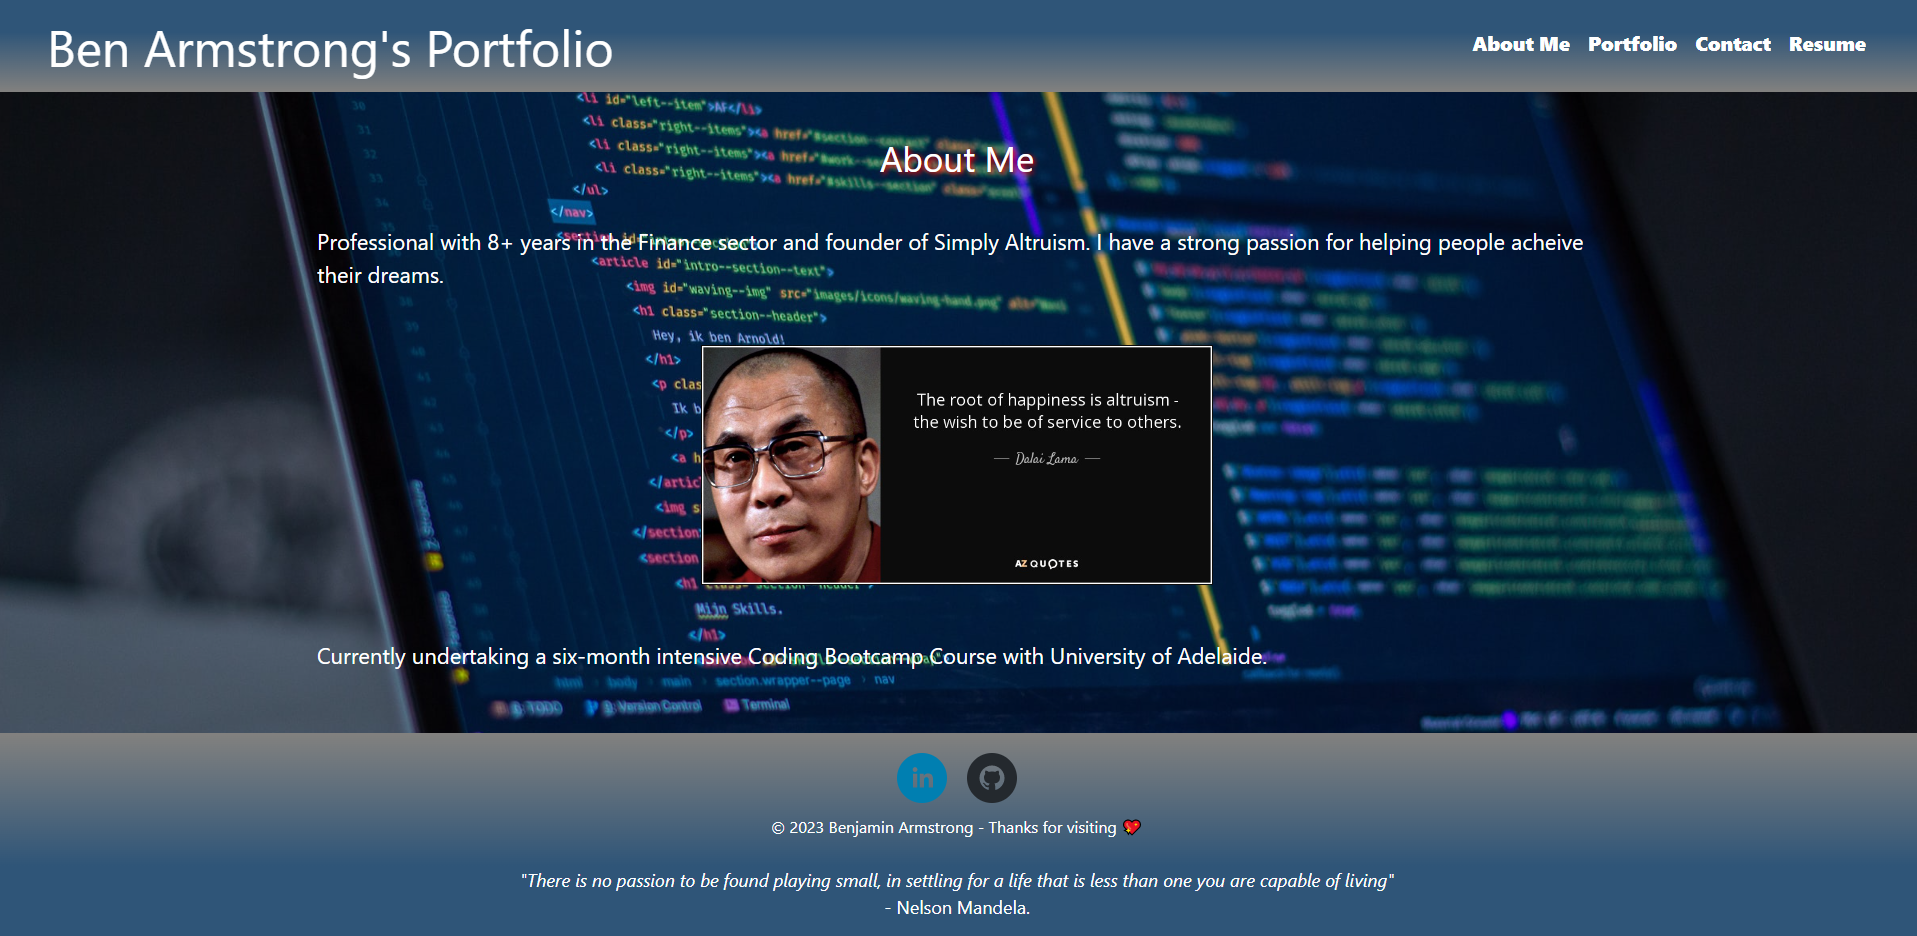
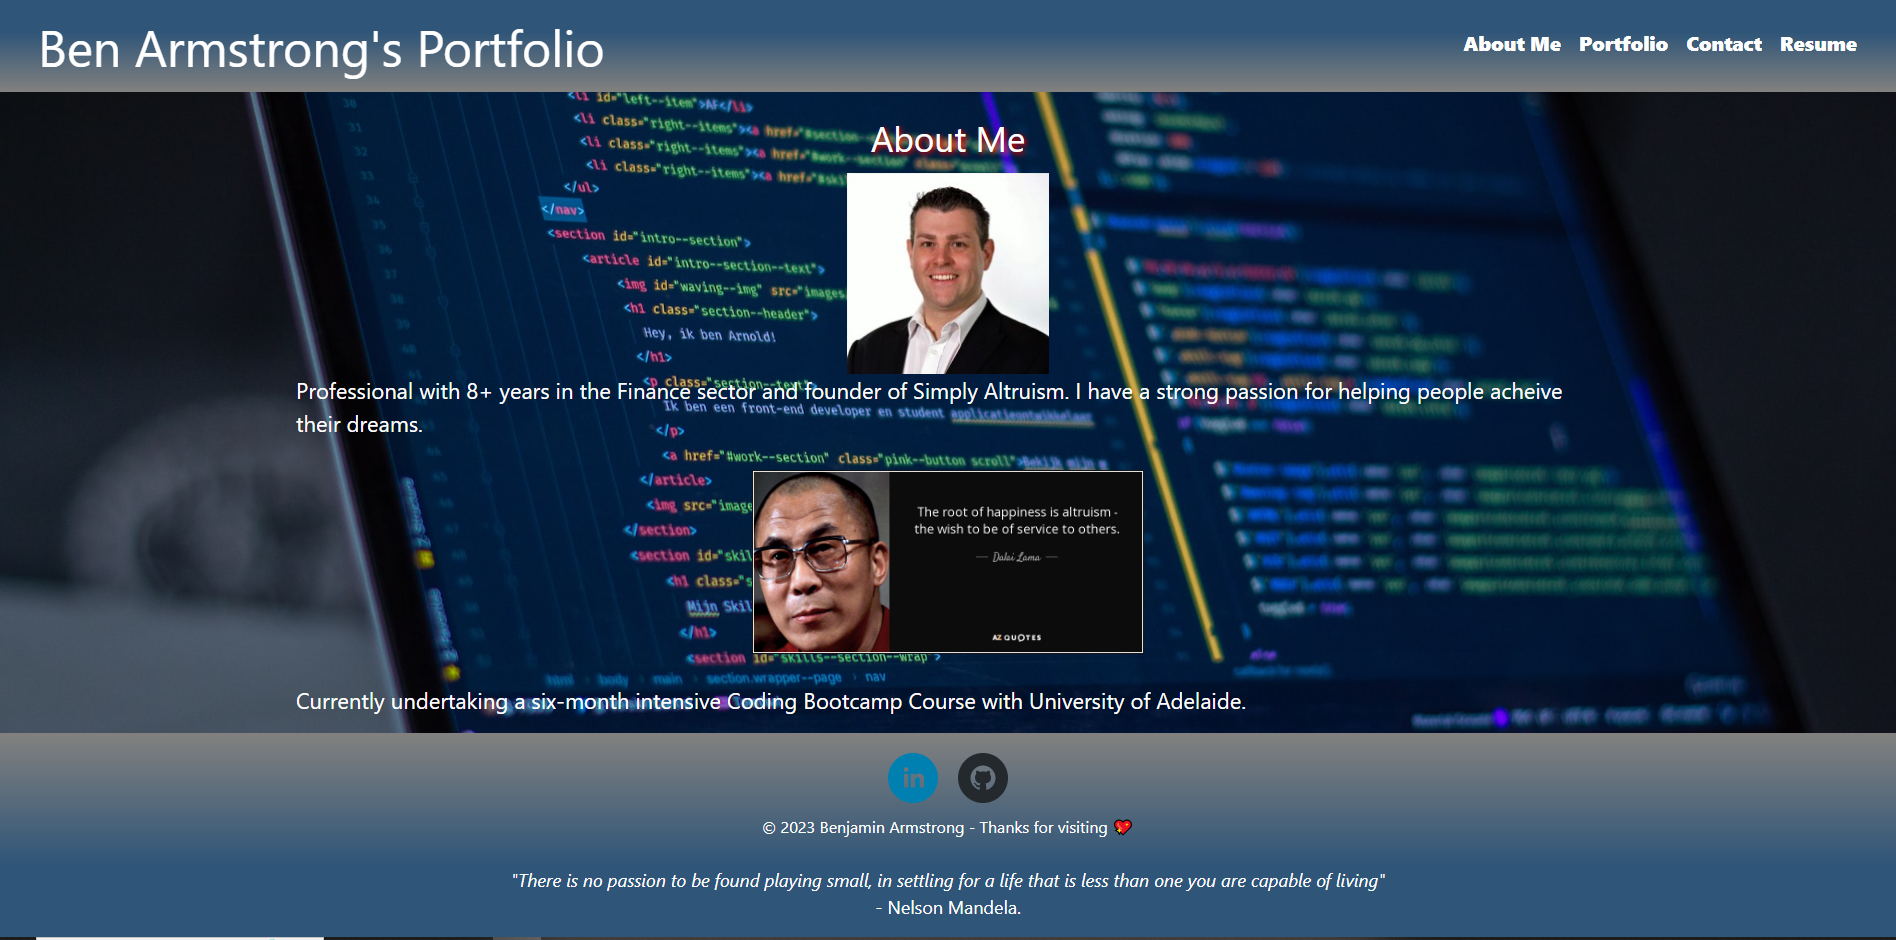
amended README with updated AboutME page

Changed region(s): [[0.0, 0.031, 1.0, 0.8985], [0.0, 0.9295, 1.0, 1.0], [0.7468, 0.031, 0.9958, 0.062]]

diff --git a/build/index.html b/build/index.html
@@ -1,1 +1,1 @@
-<!doctype html><html lang="en"><head><meta charset="utf-8"/><link rel="icon" href="/Ben-Armstrong-React-Portfolio/favicon.ico"/><meta name="viewport" content="width=device-width,initial-scale=1"/><meta name="theme-color" content="#000000"/><meta name="description" content="Web site created using create-react-app"/><link rel="apple-touch-icon" href="/Ben-Armstrong-React-Portfolio/logo192.png"/><link rel="manifest" href="/Ben-Armstrong-React-Portfolio/manifest.json"/><title>React App</title><script defer="defer" src="/Ben-Armstrong-React-Portfolio/static/js/main.40a0cbe0.js"></script><link href="/Ben-Armstrong-React-Portfolio/static/css/main.cba6351a.css" rel="stylesheet"></head><body><noscript>You need to enable JavaScript to run this app.</noscript><div id="root"></div></body></html>
+<!doctype html><html lang="en"><head><meta charset="utf-8"/><link rel="icon" href="/Ben-Armstrong-React-Portfolio/favicon.ico"/><meta name="viewport" content="width=device-width,initial-scale=1"/><meta name="theme-color" content="#000000"/><meta name="description" content="Web site created using create-react-app"/><link rel="apple-touch-icon" href="/Ben-Armstrong-React-Portfolio/logo192.png"/><link rel="manifest" href="/Ben-Armstrong-React-Portfolio/manifest.json"/><title>React App</title><script defer="defer" src="/Ben-Armstrong-React-Portfolio/static/js/main.587b8076.js"></script><link href="/Ben-Armstrong-React-Portfolio/static/css/main.46e7c676.css" rel="stylesheet"></head><body><noscript>You need to enable JavaScript to run this app.</noscript><div id="root"></div></body></html>
